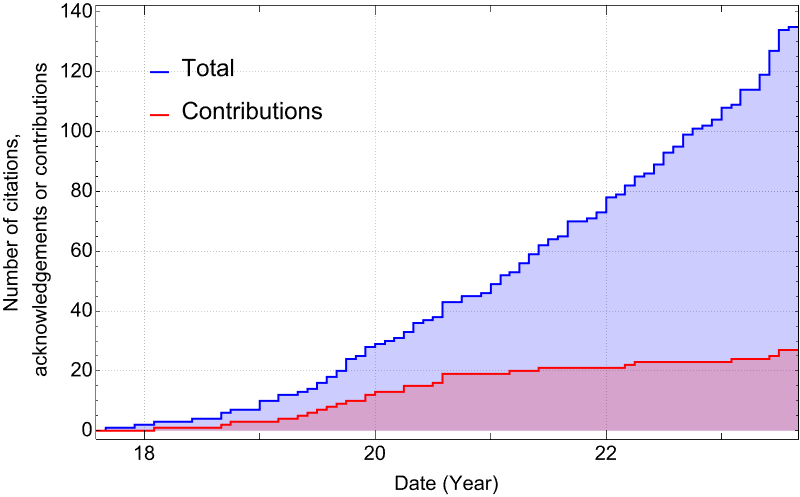
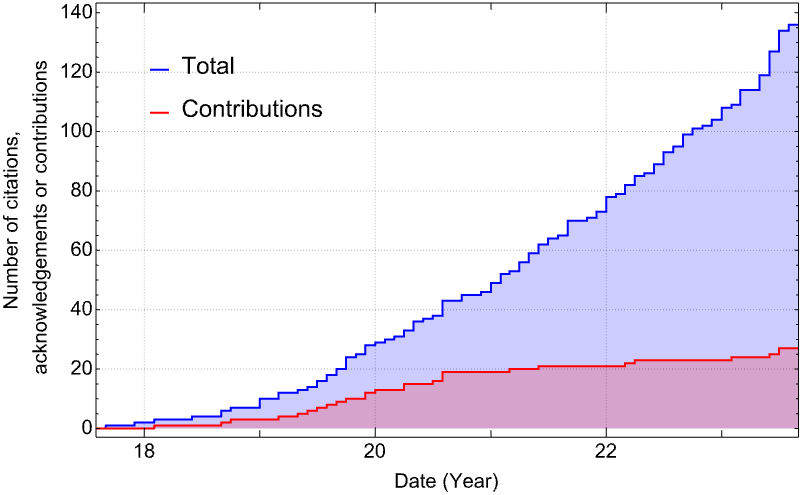
Add paper the cites the Toolkit

diff --git a/users.md b/users.md
@@ -19,6 +19,8 @@ The graph below show the accumulated citations to the Toolkit over time. The blu
 
 Below is a list of research papers that have used or extended the Toolkit. Papers that have contributed code or data to the Toolkit have a (*) after them.
 
+136\. "Gravitational radiation from a particle plunging into a Schwarzschild black hole: frequency-domain and semi-relativistic analyses", Hector O. Silva, Giovanni Tambalo, Kostas Glampedakis, Kent Yagi, [arXiv:2308.14823](https://arxiv.org/abs/2308.14823)
+
 135\. "Analytic solutions for the motion of spinning particles near spherically symmetric black holes and exotic compact objects", Vojtěch Witzany, Gabriel Andres Piovano, [arXiv:2308.00021](https://arxiv.org/abs/2308.00021)
 
 134\. "Detection of astrophysical gravitational wave sources by TianQin and LISA", Alejandro Torres-Orjuela, Shun-Jia Huang, Zheng-Cheng Liang, Shuai Liu, Hai-Tian Wang, Chang-Qing Ye, Yi-Ming Hu, Jianwei Mei, [arXiv:2307.16628](https://arxiv.org/abs/2307.16628)
